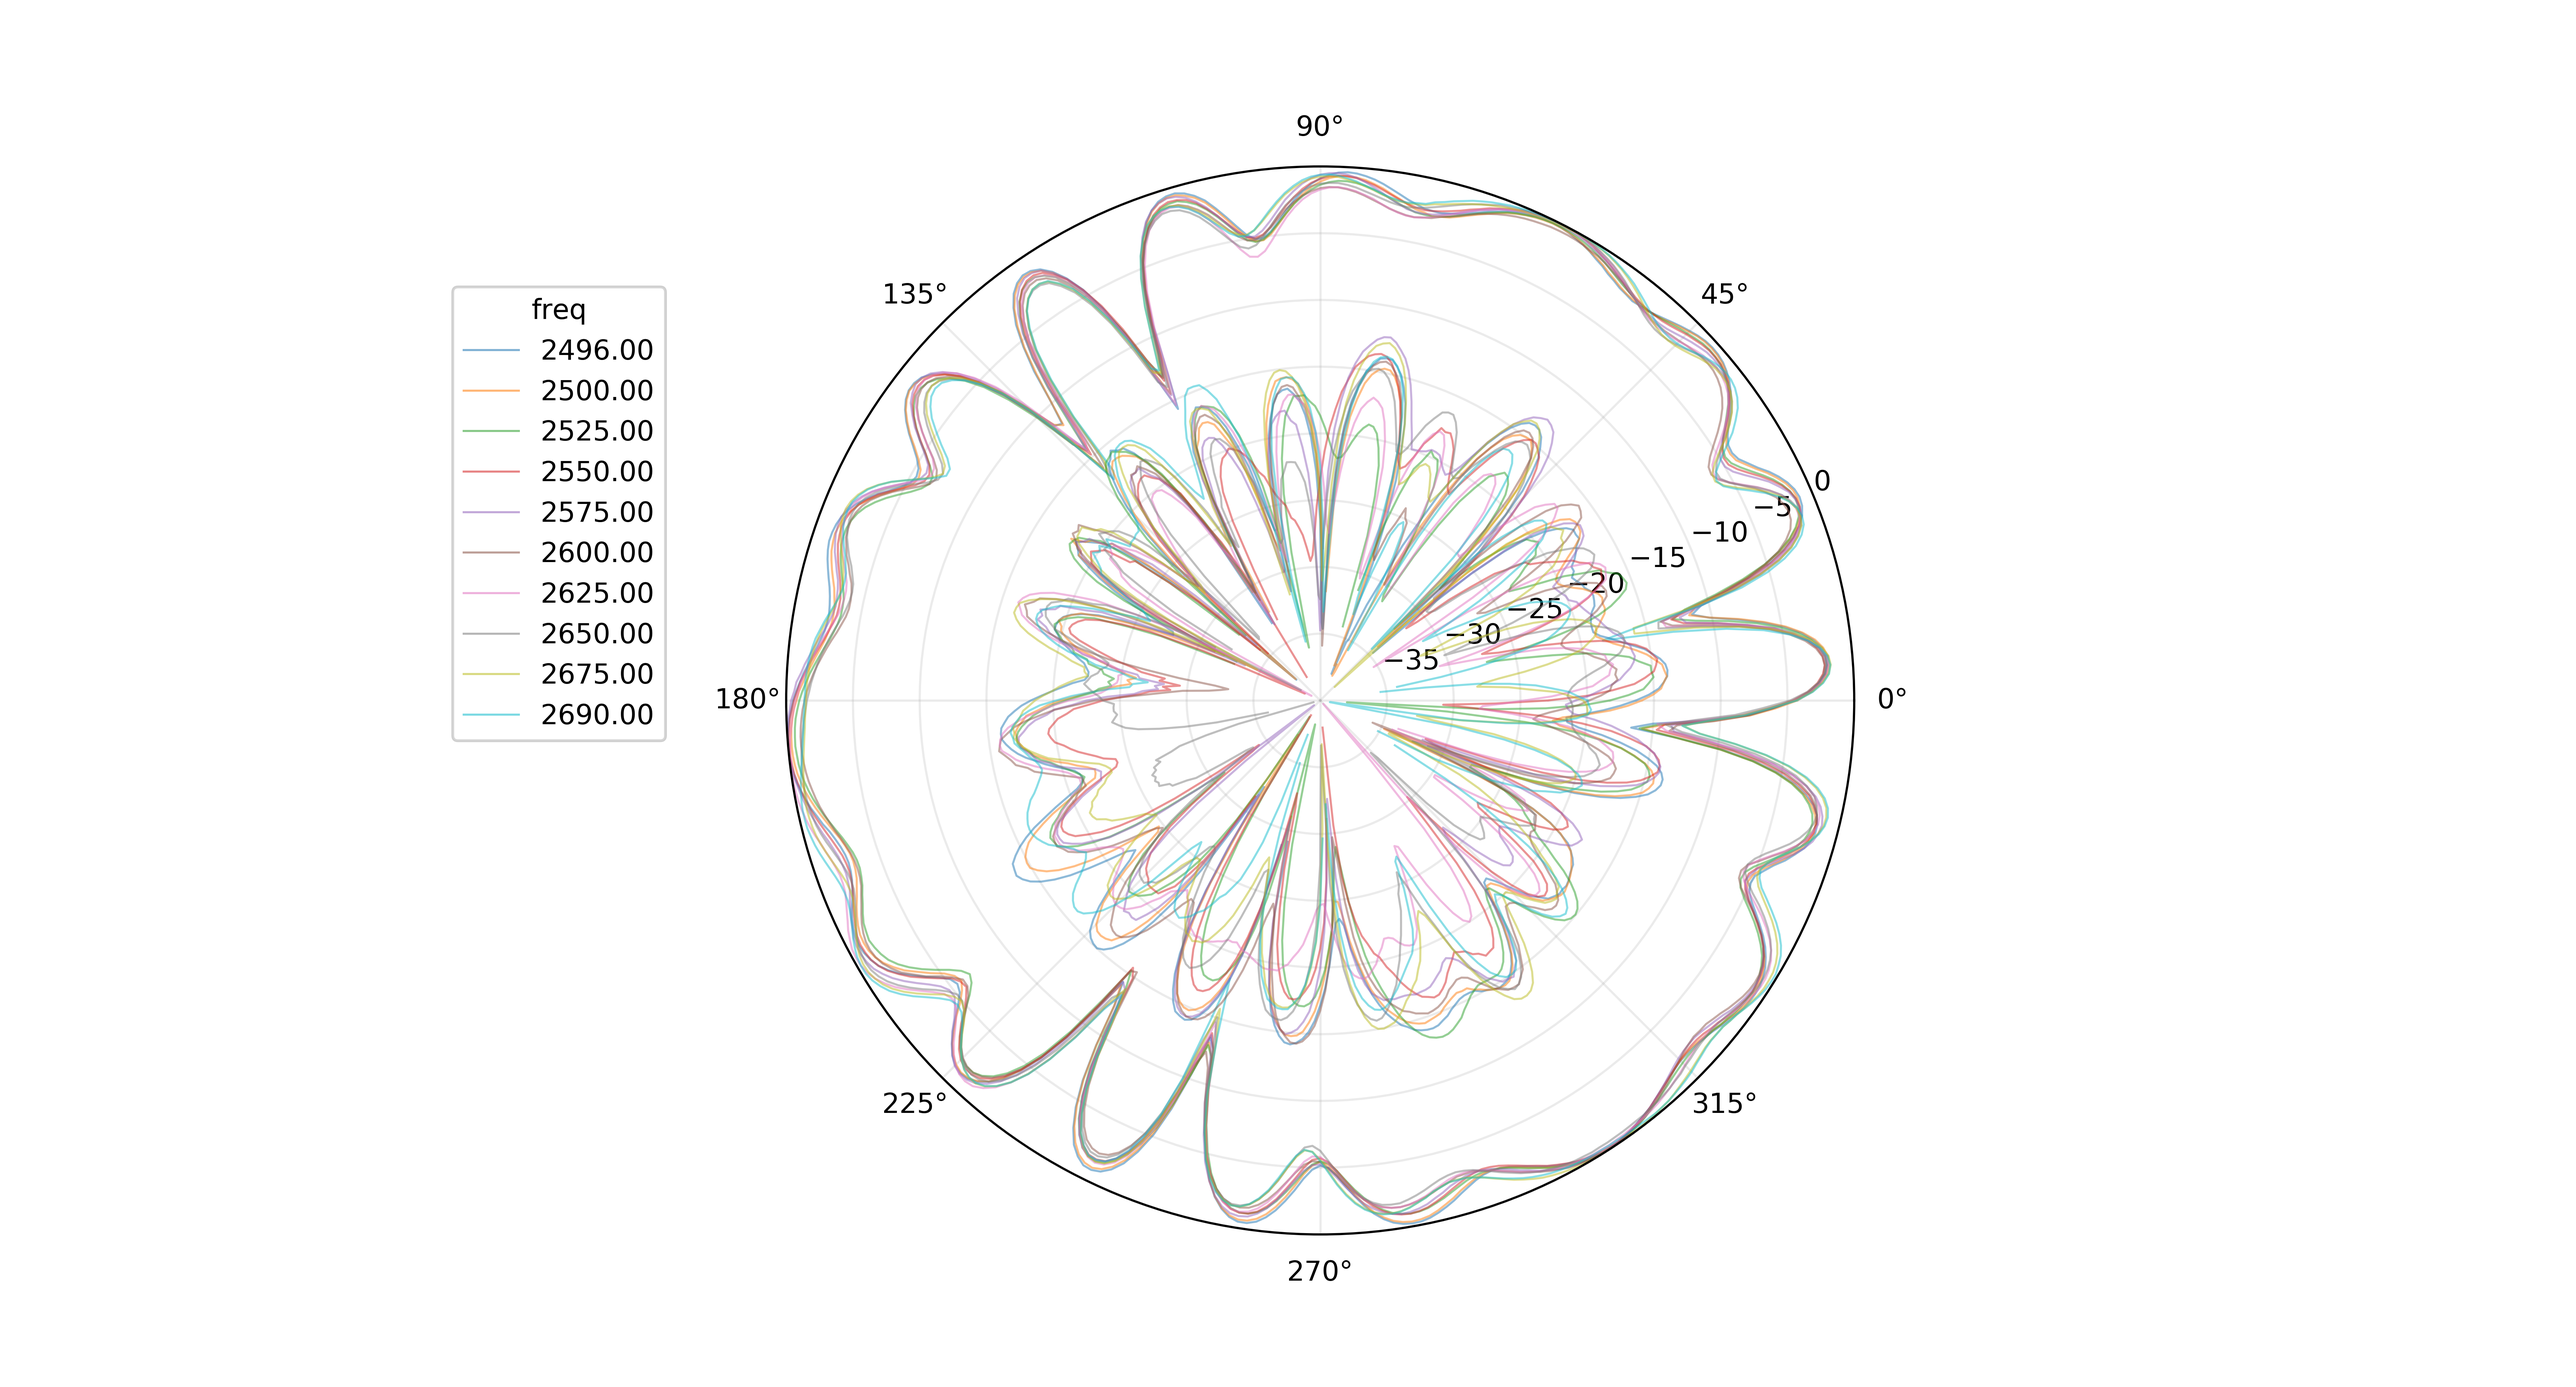
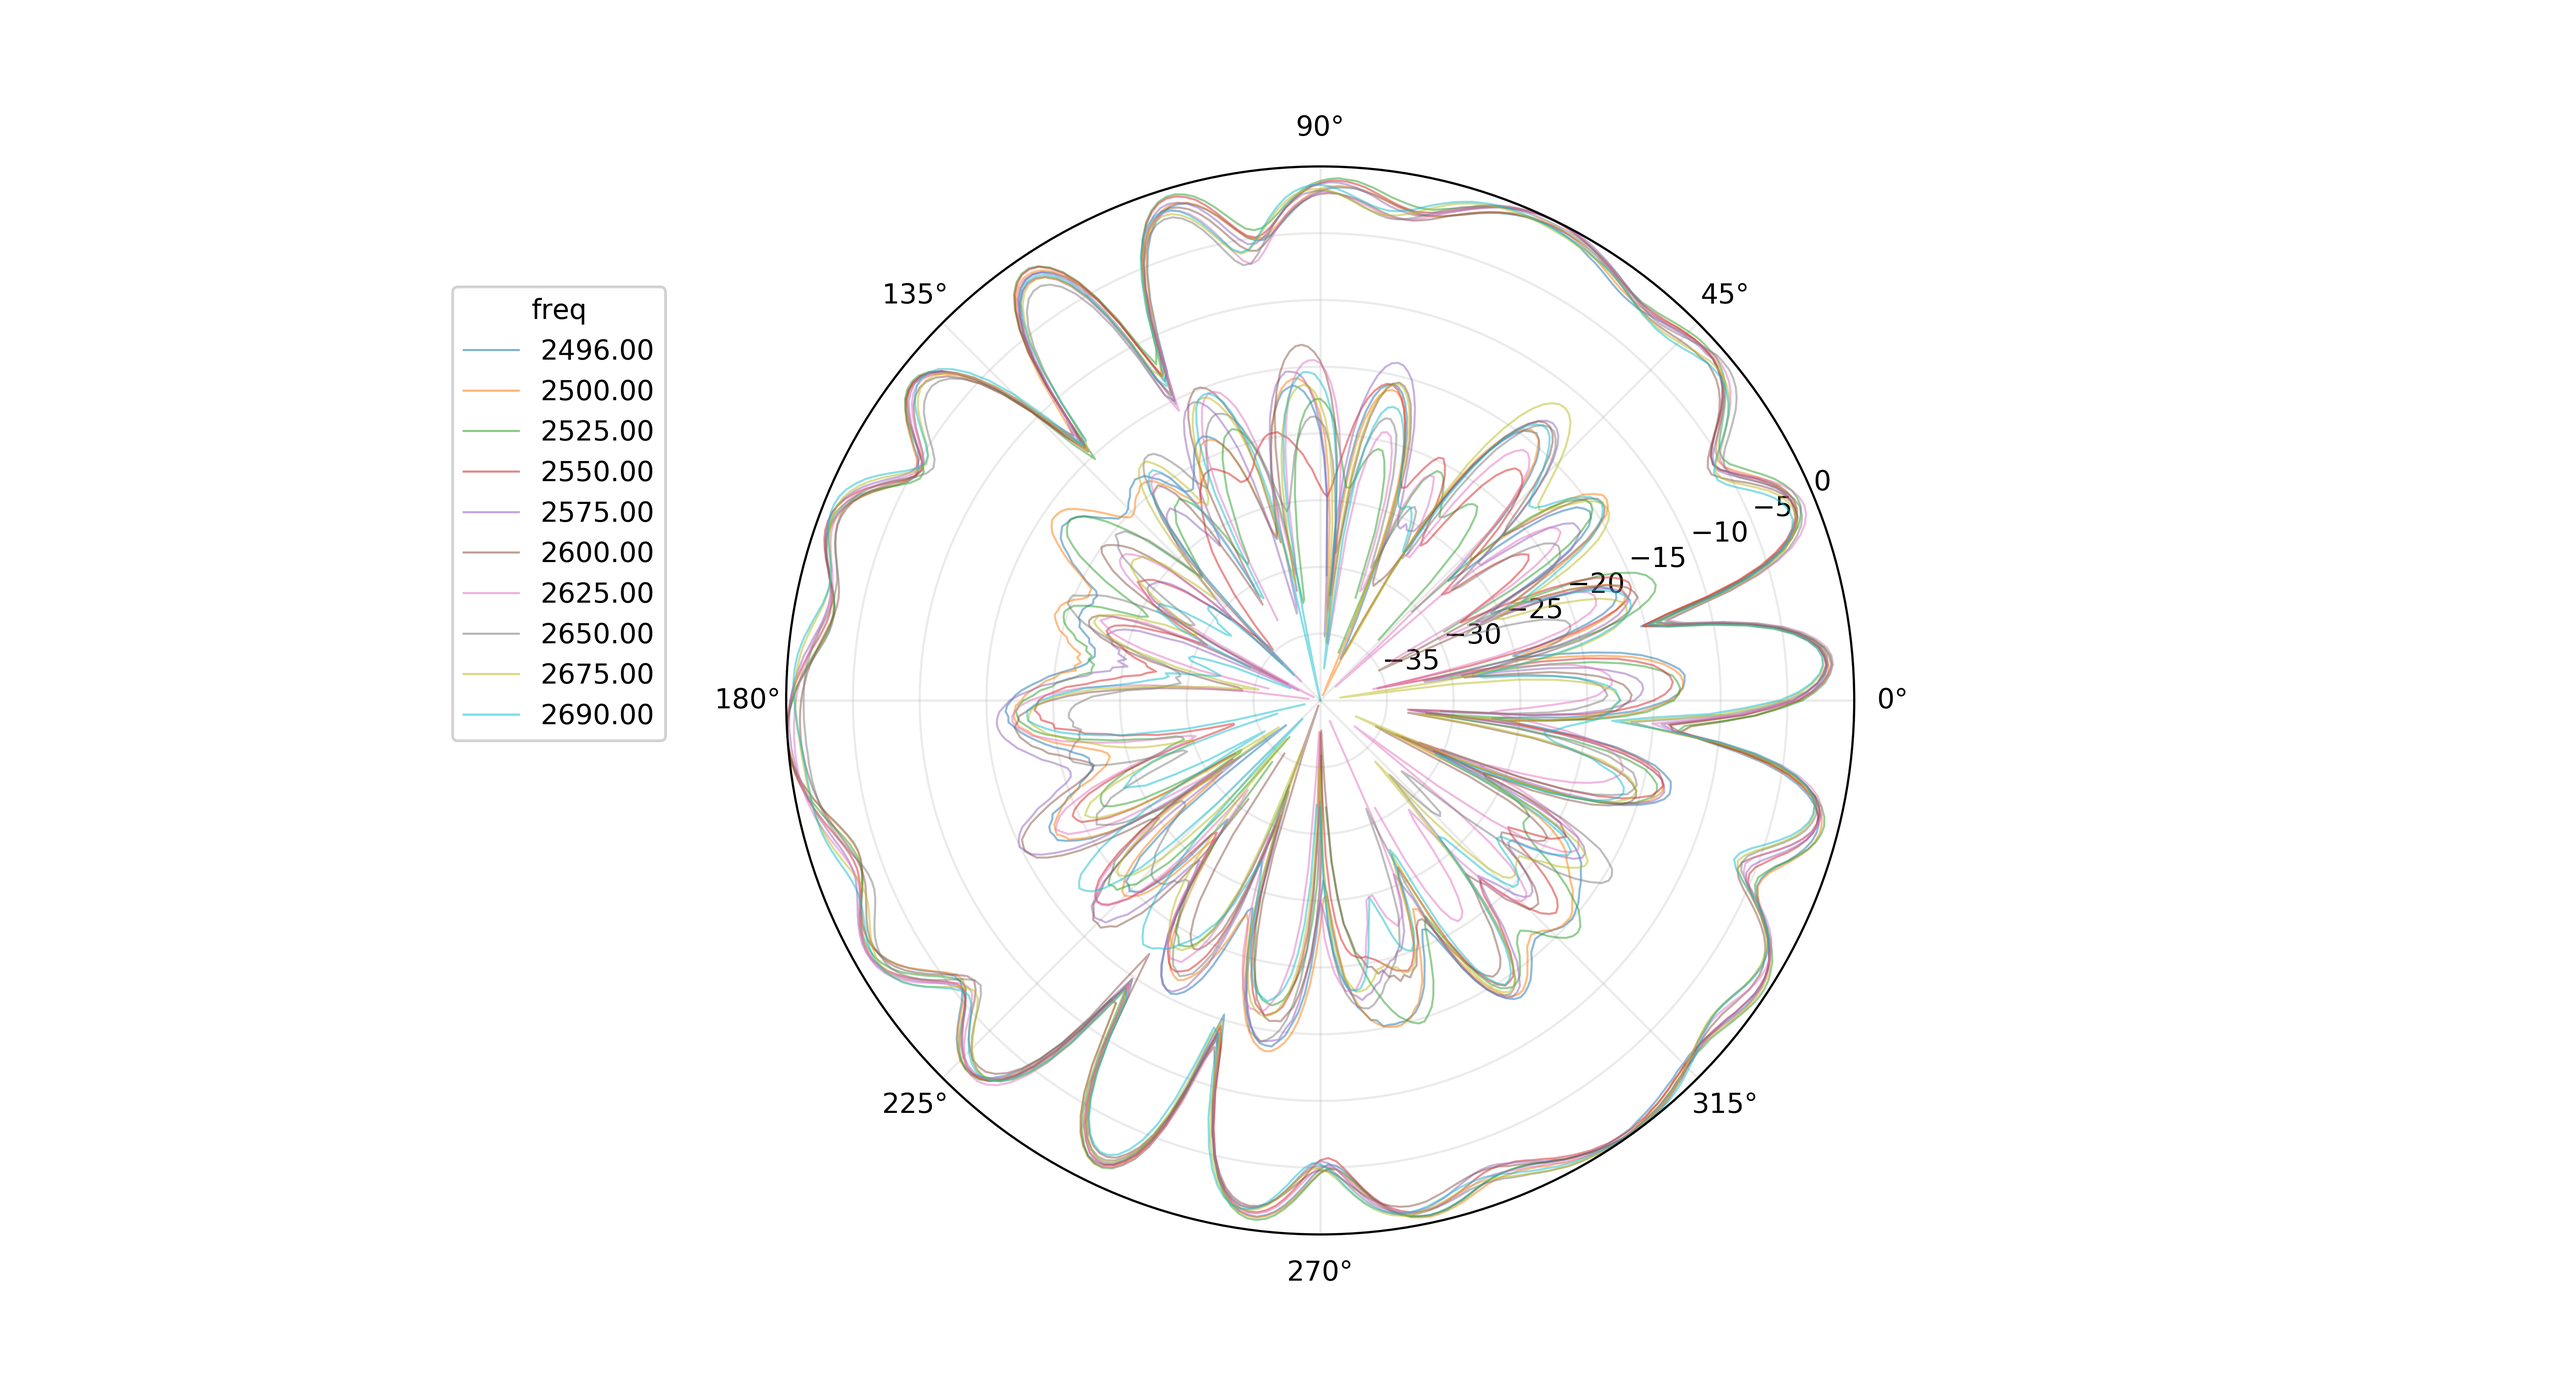
small bug fix

diff --git a/file_merge.py b/file_merge.py
@@ -113,7 +113,7 @@ def get_file_names_in_dir(path):
     
     #This might be needed at a later date. It creates a dict with all ports 
     # and tilts
-    """ 
+    
     #Find all of ports
     port_idx=4
     all_ports=panda[port_idx]
@@ -125,7 +125,7 @@ def get_file_names_in_dir(path):
     all_tilts=panda[tilt_idx]
     all_tilts=all_tilts.drop_duplicates()
     number_of_tilts=len(all_tilts)
-    """
+    
      
     #Organise panda into a dictionary for each port 
     n_ports = dict()    

diff --git a/generate_data.py b/generate_data.py
@@ -58,7 +58,7 @@ def results_table(az_co,az_cr,el_co):
 #import data
 #Alternatively we can use sub dir=\\raw_data\\
 all_ports=read_in_data_all_ports(    sub_dir = "\\raw_data_3\\"     )
-port_s1=all_ports["P2"]
+port_s1=all_ports["P1"]
 
 # define dataframe pages
 az_co = port_s1["AZ T0 CO"]["amplitude"]
